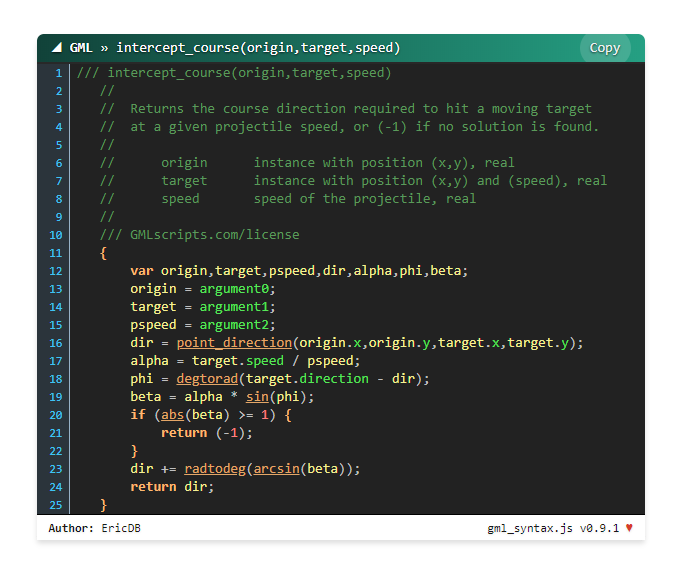
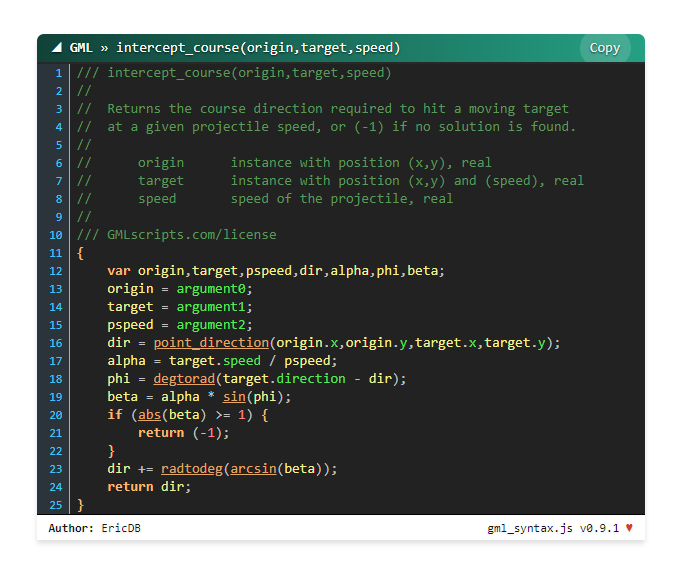
Cleanup

Changed region(s): [[0.1232, 0.1549, 0.893, 0.8675]]

diff --git a/index.html b/index.html
@@ -74,106 +74,106 @@
 			<br/>
 
 			<div class="gm_codeblock" author="xot" source="https://www.gmlscripts.com/script/unix_timestamp" title="unix_timestamp([datetime])">
-			/// unix_timestamp([datetime])
-			//
-			//  Returns a Unix timestamp for the current time
-			//  or optionally given GameMaker datetime value.
-			//
-			//      datetime    GameMaker datetime, real
-			//
-			/// GMLscripts.com/license
-			{
-			    var timezone = date_get_timezone();
-			 
-			    date_set_timezone(timezone_utc);
-			 
-			    if (argument_count > 0) {
-			        var datetime = argument[0];
-			    } else {
-			        var datetime = date_current_datetime();
-			    }
-			 
-			    var timestamp = round(date_second_span(25569, datetime));
-			 
-			    date_set_timezone(timezone);
-			 
-			    return timestamp;
-			}
+/// unix_timestamp([datetime])
+//
+//  Returns a Unix timestamp for the current time
+//  or optionally given GameMaker datetime value.
+//
+//      datetime    GameMaker datetime, real
+//
+/// GMLscripts.com/license
+{
+    var timezone = date_get_timezone();
+ 
+    date_set_timezone(timezone_utc);
+ 
+    if (argument_count > 0) {
+        var datetime = argument[0];
+    } else {
+        var datetime = date_current_datetime();
+    }
+ 
+    var timestamp = round(date_second_span(25569, datetime));
+ 
+    date_set_timezone(timezone);
+ 
+    return timestamp;
+}
 			</div>
 
 			<div class="gm_codeblock" author="xot" source="https://www.gmlscripts.com/script/fibonacci" title="fibonacci(n)">
-			/// fibonacci(n)
-			//
-			//  Returns the nth number of the Fibonacci sequence.
-			//
-			//      n           desired Fibonacci number, non-negative integer, real
-			//
-			/// GMLscripts.com/license
-			{
-			    return round(power((1+sqrt(5))/2,argument0)/sqrt(5));
-			}
+/// fibonacci(n)
+//
+//  Returns the nth number of the Fibonacci sequence.
+//
+//      n           desired Fibonacci number, non-negative integer, real
+//
+/// GMLscripts.com/license
+{
+    return round(power((1+sqrt(5))/2,argument0)/sqrt(5));
+}
 			</div>
 
 			<div class="gm_codeblock" author="xot" source="https://www.gmlscripts.com/script/ds_grid_translate" title="ds_grid_translate(id,horiz,vert)">
-			/// ds_grid_translate(id,horiz,vert)
-			//
-			//  Shifts the contents of a grid by a given number of rows
-			//  and columns. The contents are shifted so that they wrap
-			//  around to the opposite side of the grid data structure.
-			//
-			//      id          grid data structure, real
-			//      horiz       horizontal shift, real
-			//      vert        vertical shift, real
-			//
-			/// GMLscripts.com/license
-			{
-			    var dsid,w,h,sx,sy,mx,my,dx,dy,temp;
-			    dsid = argument0;
-			    w = ds_grid_width(dsid);
-			    h = ds_grid_height(dsid);
-			    sx = (((argument1 mod w)+w) mod w);
-			    sy = (((argument2 mod h)+h) mod h);
-			    mx = w-1;
-			    my = h-1;
-			    dx = mx-sx;
-			    dy = my-sy;
-			    temp = ds_grid_create(w,h);
-			    ds_grid_set_grid_region(temp,dsid,0,0,dx,dy,sx,sy);
-			    if (sx>0) ds_grid_set_grid_region(temp,dsid,dx+1,0,mx,dy,0,sy);
-			    if (sy>0) ds_grid_set_grid_region(temp,dsid,0,dy+1,dx,my,sx,0);
-			    if ((sx>0) && (sy>0)) ds_grid_set_grid_region(temp,dsid,dx+1,dy+1,mx,my,0,0);
-			    ds_grid_copy(dsid,temp);
-			    ds_grid_destroy(temp);
-			    return 0;
-			}
+/// ds_grid_translate(id,horiz,vert)
+//
+//  Shifts the contents of a grid by a given number of rows
+//  and columns. The contents are shifted so that they wrap
+//  around to the opposite side of the grid data structure.
+//
+//      id          grid data structure, real
+//      horiz       horizontal shift, real
+//      vert        vertical shift, real
+//
+/// GMLscripts.com/license
+{
+    var dsid,w,h,sx,sy,mx,my,dx,dy,temp;
+    dsid = argument0;
+    w = ds_grid_width(dsid);
+    h = ds_grid_height(dsid);
+    sx = (((argument1 mod w)+w) mod w);
+    sy = (((argument2 mod h)+h) mod h);
+    mx = w-1;
+    my = h-1;
+    dx = mx-sx;
+    dy = my-sy;
+    temp = ds_grid_create(w,h);
+    ds_grid_set_grid_region(temp,dsid,0,0,dx,dy,sx,sy);
+    if (sx>0) ds_grid_set_grid_region(temp,dsid,dx+1,0,mx,dy,0,sy);
+    if (sy>0) ds_grid_set_grid_region(temp,dsid,0,dy+1,dx,my,sx,0);
+    if ((sx>0) && (sy>0)) ds_grid_set_grid_region(temp,dsid,dx+1,dy+1,mx,my,0,0);
+    ds_grid_copy(dsid,temp);
+    ds_grid_destroy(temp);
+    return 0;
+}
 			</div>
 
 			<div class="gm_codeblock" author="EricDB" source="https://www.gmlscripts.com/script/intercept_course" title="intercept_course(origin,target,speed)">
-			/// intercept_course(origin,target,speed)
-			//
-			//  Returns the course direction required to hit a moving target
-			//  at a given projectile speed, or (-1) if no solution is found.
-			//
-			//      origin      instance with position (x,y), real
-			//      target      instance with position (x,y) and (speed), real
-			//      speed       speed of the projectile, real
-			//
-			/// GMLscripts.com/license
-			{
-			    var origin,target,pspeed,dir,alpha,phi,beta;
-			    origin = argument0;
-			    target = argument1;
-			    pspeed = argument2;
-			    dir = point_direction(origin.x,origin.y,target.x,target.y);
-			    alpha = target.speed / pspeed;
-			    phi = degtorad(target.direction - dir);
-			    beta = alpha * sin(phi);
-			    if (abs(beta) >= 1) {
-			        return (-1);
-			    }
-			    dir += radtodeg(arcsin(beta));
-			    return dir;
-			}
+/// intercept_course(origin,target,speed)
+//
+//  Returns the course direction required to hit a moving target
+//  at a given projectile speed, or (-1) if no solution is found.
+//
+//      origin      instance with position (x,y), real
+//      target      instance with position (x,y) and (speed), real
+//      speed       speed of the projectile, real
+//
+/// GMLscripts.com/license
+{
+    var origin,target,pspeed,dir,alpha,phi,beta;
+    origin = argument0;
+    target = argument1;
+    pspeed = argument2;
+    dir = point_direction(origin.x,origin.y,target.x,target.y);
+    alpha = target.speed / pspeed;
+    phi = degtorad(target.direction - dir);
+    beta = alpha * sin(phi);
+    if (abs(beta) >= 1) {
+        return (-1);
+    }
+    dir += radtodeg(arcsin(beta));
+    return dir;
+}
 			</div>
 			<br/>
 			<hr/>

diff --git a/README.md b/README.md
@@ -7,12 +7,13 @@ A JavaScript syntax highlighter for the GameMaker Language, [YoYo Games' GameMak
 * Local and global variable scoping
 * In-function [documentation linking](http://docs2.yoyogames.com/) for easy referencing
 * Clipboard copying support
+* Code snippet citation in-footer
 
 ## Demo
 
-![gml_syntax demo image 0](https://github.com/zbanack/gml_syntax/blob/master/demo/gml_syntax-v0.9.1-demo-0.png?raw=true)
-
 You can check out a live demo of gml_syntax.js in your browser **[here](https://banack.me/gm/gml_syntax/)**.
+
+![gml_syntax demo image 0](https://github.com/zbanack/gml_syntax/blob/master/demo/gml_syntax-v0.9.1-demo-0.png?raw=true)
 
 ## Getting Started
 
